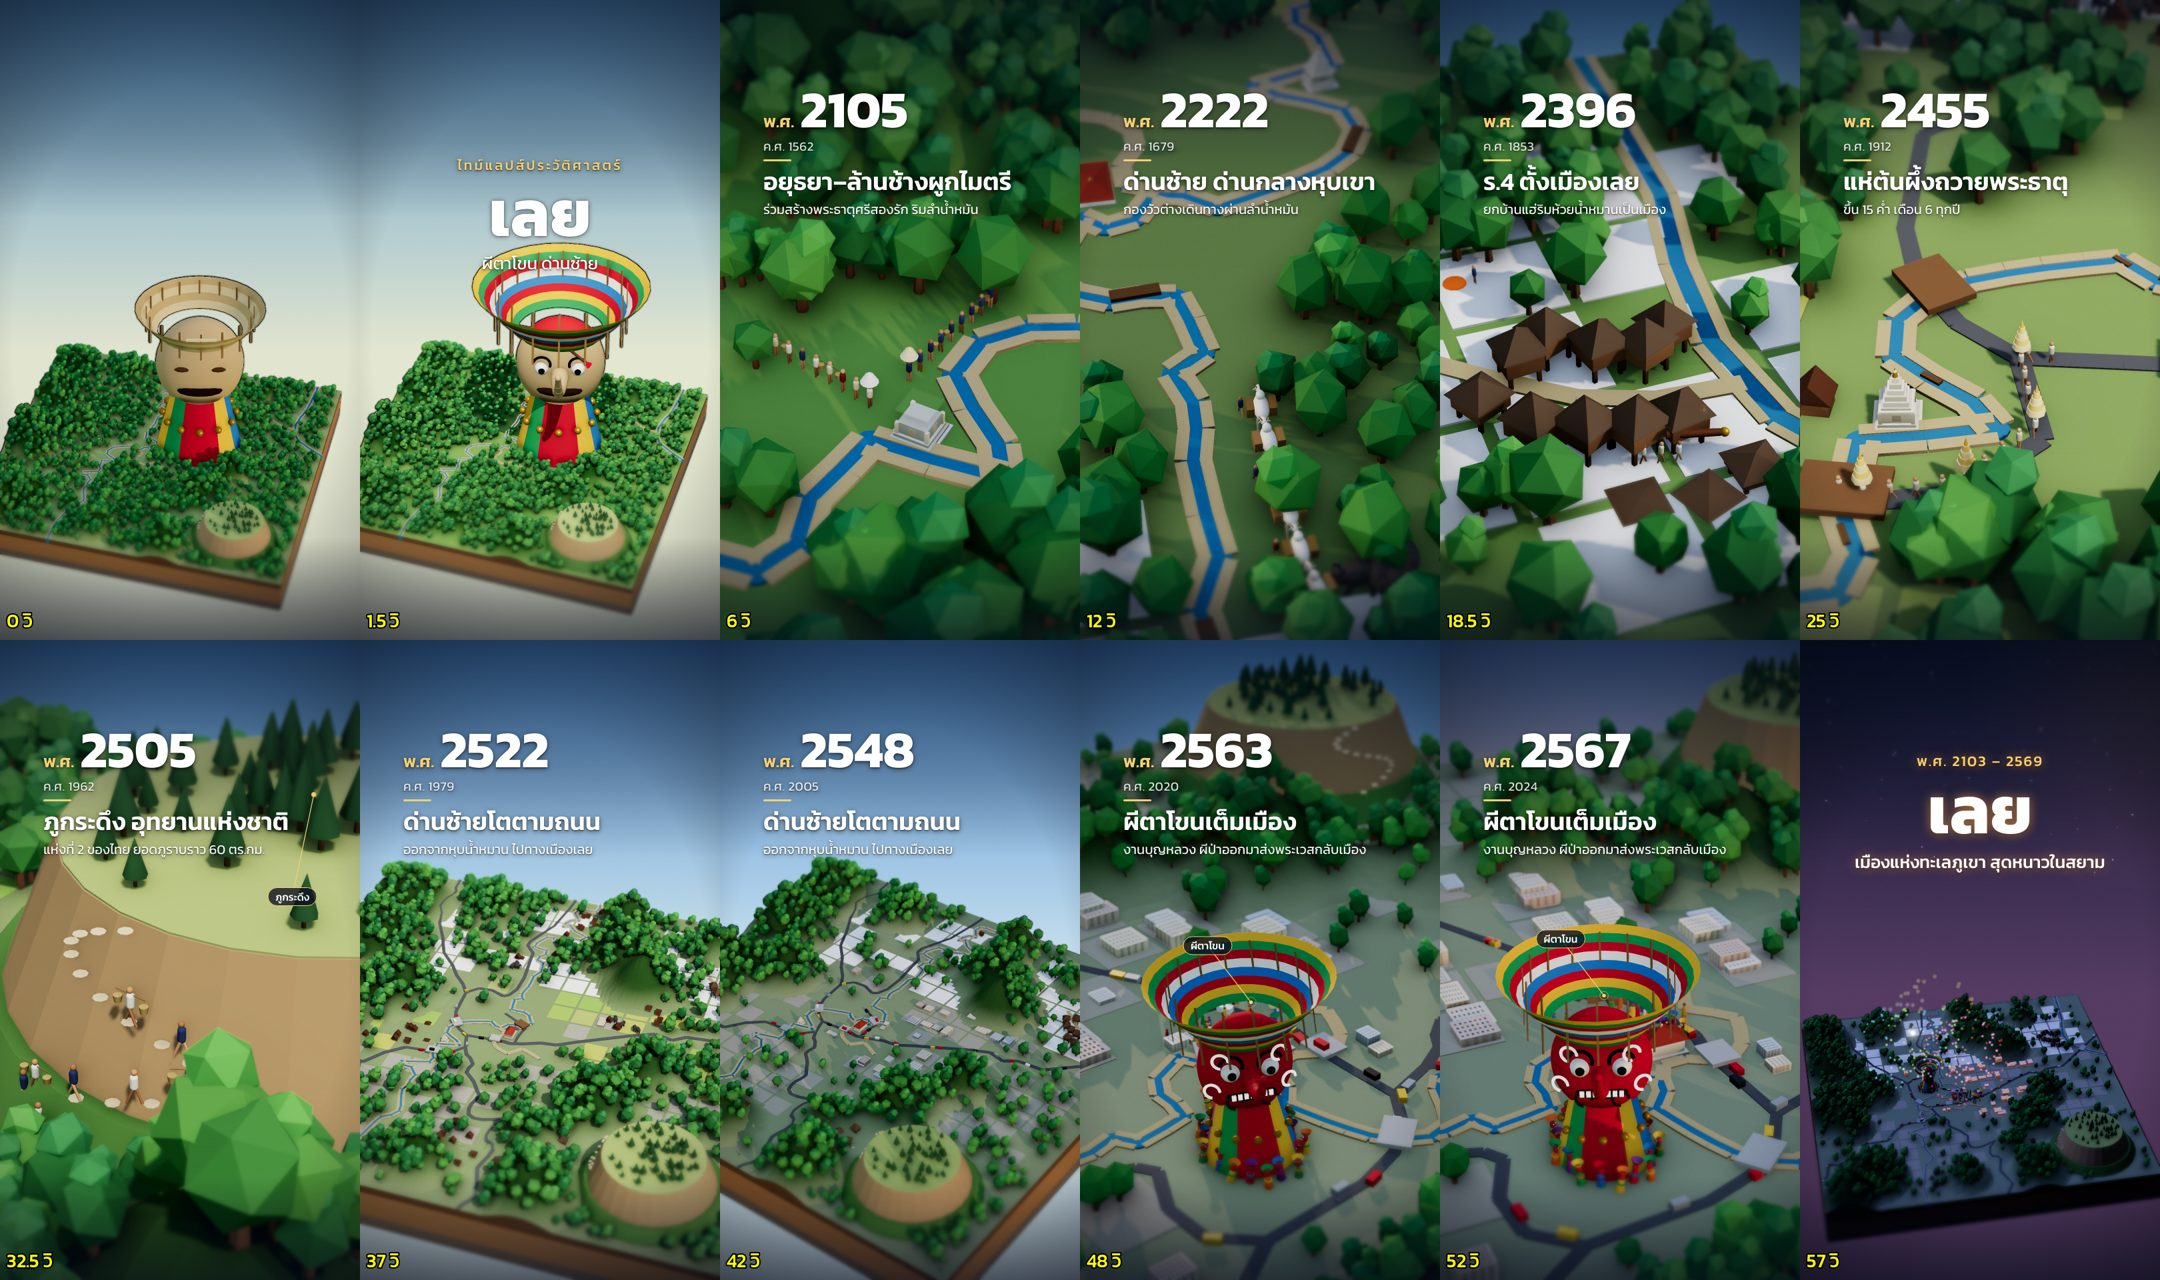
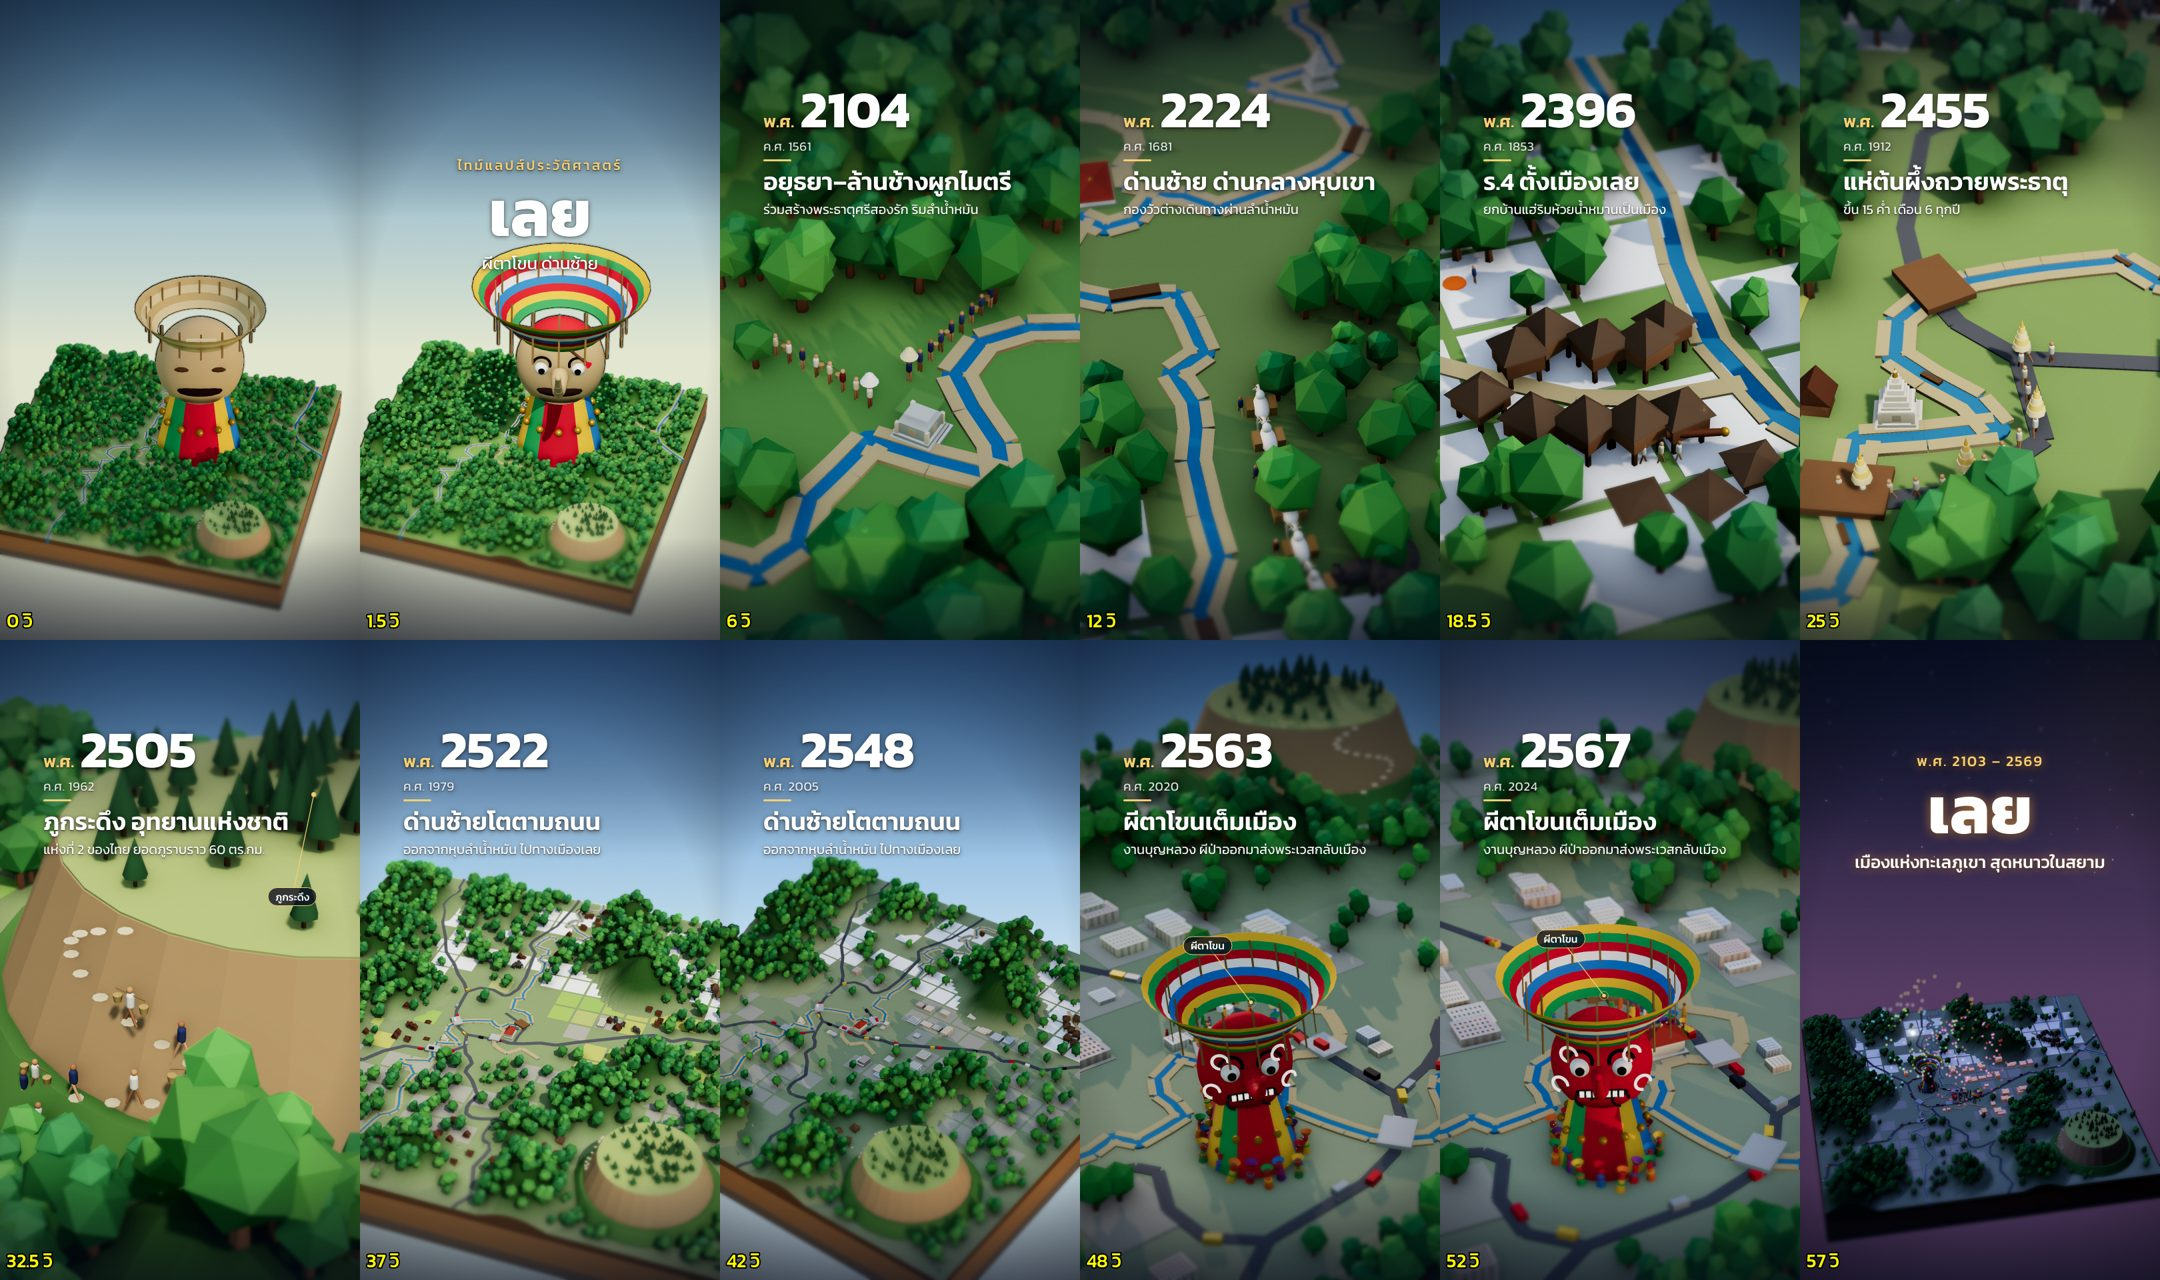
Loei v1: lead review: oath counter only passes 2099-2109, grow sub names ลำน้ำหมัน, stills re-run

diff --git a/src/cities/loei/timeline.ts b/src/cities/loei/timeline.ts
@@ -1,8 +1,8 @@
 // Pure data (no React/three) so scripts/export_timeline.mjs can import it for the soundtrack.
 // Beats own their seconds (src/engine/story.ts); the beats, verbs, held years and what is approximate are the brief's
 // storyline v1 table (docs/briefs/loei.md; the owner delegated the call, 20 Nov 2569): hero / oath / frontier / loei / wax /
-// kradueng / grow / fest / today. On the counter: 2103 -> 2106 (Phra That Si Song Rak, the inscription's จ.ศ. 922-925; each
-// year about 1.6 s), 2396 held (Ban Hae raised to เมืองเลย), 2505 held (Phu Kradueng national park); it lands on 2569. The
+// kradueng / grow / fest / today. On the counter: 2099 -> 2109 passing (~0.6 s a year) through the oath (Phra That Si Song
+// Rak, the inscription's จ.ศ. 922-925 = 2103-2106; no year held), 2396 held (Ban Hae raised to เมืองเลย), 2505 held (Phu Kradueng national park); it lands on 2569. The
 // pact's c. 1556 (en.wiki only), Mouhot's 2404, Rama IX's climb of 2498 and the 2478 registration are named in no sub.
 import {between, type CameraKey} from '../../engine/glide';
 import {buildStory} from '../../engine/story';
@@ -70,7 +70,8 @@ export const STORY = buildStory({
       id: 'oath',
       kind: 'procession',
       t: [3.0, 9.5],
-      year: [1560, 1563.45],
+      // the counter only passes through the years (~0.6 s each): the pact is c. 2099 by one source, the building 2103-2106
+      year: [1556, 1566],
       caption: {t0: 3.2, title: 'อยุธยา–ล้านช้างผูกไมตรี', sub: 'ร่วมสร้างพระธาตุศรีสองรัก ริมลำน้ำหมัน'},
       era: 'อยุธยา',
       callouts: [{label: 'พระธาตุศรีสองรัก', dx: 120, dy: -170, p: [STUPA[0], 2.4, STUPA[1]], t0: 6.6, t1: 9.2}],
@@ -81,7 +82,7 @@ export const STORY = buildStory({
       id: 'frontier',
       kind: 'trade',
       t: [9.5, 15.5],
-      year: [1564, 1840],
+      year: [1567, 1840],
       caption: {t0: 9.6, title: 'ด่านซ้าย ด่านกลางหุบเขา', sub: 'กองวัวต่างเดินทางผ่านลำน้ำหมัน'},
       camera: [FR_IN, FR_END],
     },
@@ -122,7 +123,7 @@ export const STORY = buildStory({
       kind: 'grow',
       t: [34.0, 44.0],
       year: [1963, 2016],
-      caption: {t0: 34.1, title: 'ด่านซ้ายโตตามถนน', sub: 'ออกจากหุบน้ำหมาน ไปทางเมืองเลย'},
+      caption: {t0: 34.1, title: 'ด่านซ้ายโตตามถนน', sub: 'ออกจากหุบลำน้ำหมัน ไปทางเมืองเลย'},
       camera: [GR_IN, GR_END],
     },
     {

diff --git a/docs/briefs/loei.md b/docs/briefs/loei.md
@@ -33,7 +33,7 @@ Man. Hills all round (Esri hillshade): ridges NW and W, a long ridge NE, rolling
 ## Years for the screen
 | fact | status | use |
 |---|---|---|
-| Ayutthaya and Lan Xang build Phra That Si Song Rak | **ยืนยัน 2103 → 2106** (จารึก จ.ศ. 922-925; en.wiki "c. 1560") | counter 2103 → 2106, each year ≥ 1 s |
+| Ayutthaya and Lan Xang build Phra That Si Song Rak | **ยืนยัน 2103 → 2106** (จารึก จ.ศ. 922-925; en.wiki "c. 1560") | counter passes 2099 → 2109 (~0.6 s a year), no year held; end card starts 2103 |
 | the pact itself | c. 1556 per en.wiki only | no year |
 | "boundary marker" (the seal's wording) vs a pact of friendship | **ขัดแย้ง** | caption says friendship, not boundary |
 | Ban Hae raised to เมืองเลย by Rama IV | **ยืนยัน 2396** (th.wiki twice, gotoknow) | **held 2396** |
@@ -67,12 +67,12 @@ Facts with nothing to show: Rama IX's climb (2498), the 2478 registration, Mouho
 | id | kind | t (s) | counter | held | caption / sub | on screen |
 |---|---|---|---|---|---|---|
 | hero | legend | 0-3.0 | ~2098 (under the title) | - | title เลย / sub "ผีตาโขน ด่านซ้าย" | the giant on the valley floor NE of town, forest and hills |
-| oath | procession | 3.0-9.5 | 2103 → 2106 | each ≥ 1 s | "อยุธยา–ล้านช้าง สาบานเป็นไมตรี" / "ร่วมสร้างพระธาตุศรีสองรัก ริมลำน้ำหมัน" | two columns (Ayutthaya from the W, Lan Xang from the N) meet at the Man's bend; the stupa rises tier by tier |
-| frontier | trade | 9.5-15.5 | 2107 → 2383 | - | "ด่านซ้าย ด่านกลางหุบเขา" / "กองวัวต่างเดินทางผ่านลำน้ำหมัน" | ox caravans come down the valley from the north past the stupa; houses go up round Wat Phon Chai |
+| oath | procession | 3.0-9.5 | 2099 → 2109 (passing) | - | "อยุธยา–ล้านช้าง สาบานเป็นไมตรี" / "ร่วมสร้างพระธาตุศรีสองรัก ริมลำน้ำหมัน" | two columns (Ayutthaya from the W, Lan Xang from the N) meet at the Man's bend; the stupa rises tier by tier |
+| frontier | trade | 9.5-15.5 | 2110 → 2383 | - | "ด่านซ้าย ด่านกลางหุบเขา" / "กองวัวต่างเดินทางผ่านลำน้ำหมัน" | ox caravans come down the valley from the north past the stupa; houses go up round Wat Phon Chai |
 | loei | build | 15.5-21.5 | 2396 | **2396 ≥ 1 s** | "ร.4 ตั้งเมืองเลย" / "ยกบ้านแฮ่ริมห้วยน้ำหมานเป็นเมือง" | far place 1 (NE edge): Ban Hae's houses on both banks, the pillar raised, the smiths' furnaces glowing |
 | wax | procession | 21.5-27.5 | 2397 → 2497 | - | "แห่ต้นผึ้งถวายพระธาตุ" / "ขึ้น 15 ค่ำ เดือน 6 ทุกปี" | people in white carry wax castles from Wat Phon Chai over the Man to the stupa |
 | kradueng | arrive | 27.5-34.0 | 2505 | **2505 ≥ 1 s** | "ภูกระดึง อุทยานแห่งชาติแห่งที่ 2" / "ยอดภูราบกว้างราว 60 ตร.กม." | far place 2 (SE edge): climbers and porters up the west face to the pine-topped plateau |
-| grow | grow | 34.0-44.0 | 2506 → 2559 | - | "ด่านซ้ายโตตามถนน" / "ออกจากหุบน้ำหมาน ไปทางเมืองเลย" | wide ≥ 160: the town spreads east along ทล.2013 and north up the valley |
+| grow | grow | 34.0-44.0 | 2506 → 2559 | - | "ด่านซ้ายโตตามถนน" / "ออกจากหุบลำน้ำหมัน ไปทางเมืองเลย" | wide ≥ 160: the town spreads east along ทล.2013 and north up the valley |
 | fest | celebrate | 44.2-54.2 | 2560 → 2568 | - | "บุญหลวง ผีตาโขนเต็มเมือง" / "ผีป่าออกมาส่งพระเวสกลับเมือง" | Phi Ta Khon fill the streets from Wat Phon Chai to the festival ground; the giant is back, dancing (callout ผีตาโขน) |
 | today | today | 54.4-56.4 | 2569 ≥ 1 s | 2569 | finale + tagline | the whole tile at the cover's distance |
 
@@ -97,3 +97,13 @@ Stills: `loei_v1_contact.jpg`. **The v1 stills pass is cloud's own (delegated by
   climbers were specks and the trail floated off the cliff (camera on the west face, climbers drawn larger, trail on the face).
 - Left as it is: the engine's bridge decks read large on the close shots (engine size, not touched); the hills read softly
   under the forest from the cover's height.
+
+## Lead review (20 Nov) and what changed
+- 18.5 s, เมืองเลย: Ban Hae is Loei town, 66 km ENE of Dan Sai (OSM city pillar way 1427324009; Huai Nam Man is not in OSM).
+  It is drawn on purpose as far place 1 at the tile's NE edge (bearing ~60 drawn, 69 real; geo.ts checks it), on its own
+  stream and the Loei river, not as Dan Sai growing; the camera goes there and comes back. Kept as a beat.
+- Names: ลำน้ำหมัน is Dan Sai's river; ห้วยน้ำหมาน (ห้วยหมาน) is Ban Hae's stream in Loei (th.wiki). Both are right where they
+  are used; the grow sub wrongly said "หุบน้ำหมาน" and now says "หุบลำน้ำหมัน".
+- 6 s: the counter no longer sits on 2103-2106; it passes 2099 -> 2109 at ~0.6 s a year. The end card keeps "พ.ศ. 2103 –".
+- 25 s: 2455 is a passing year; the wax beat runs 2397 -> 2497 linearly (~17 years a second), no year held.
+- 37/42 s are one beat (grow, 34-44 s) and 48/52 s one beat (fest, 44.2-54.2 s).
